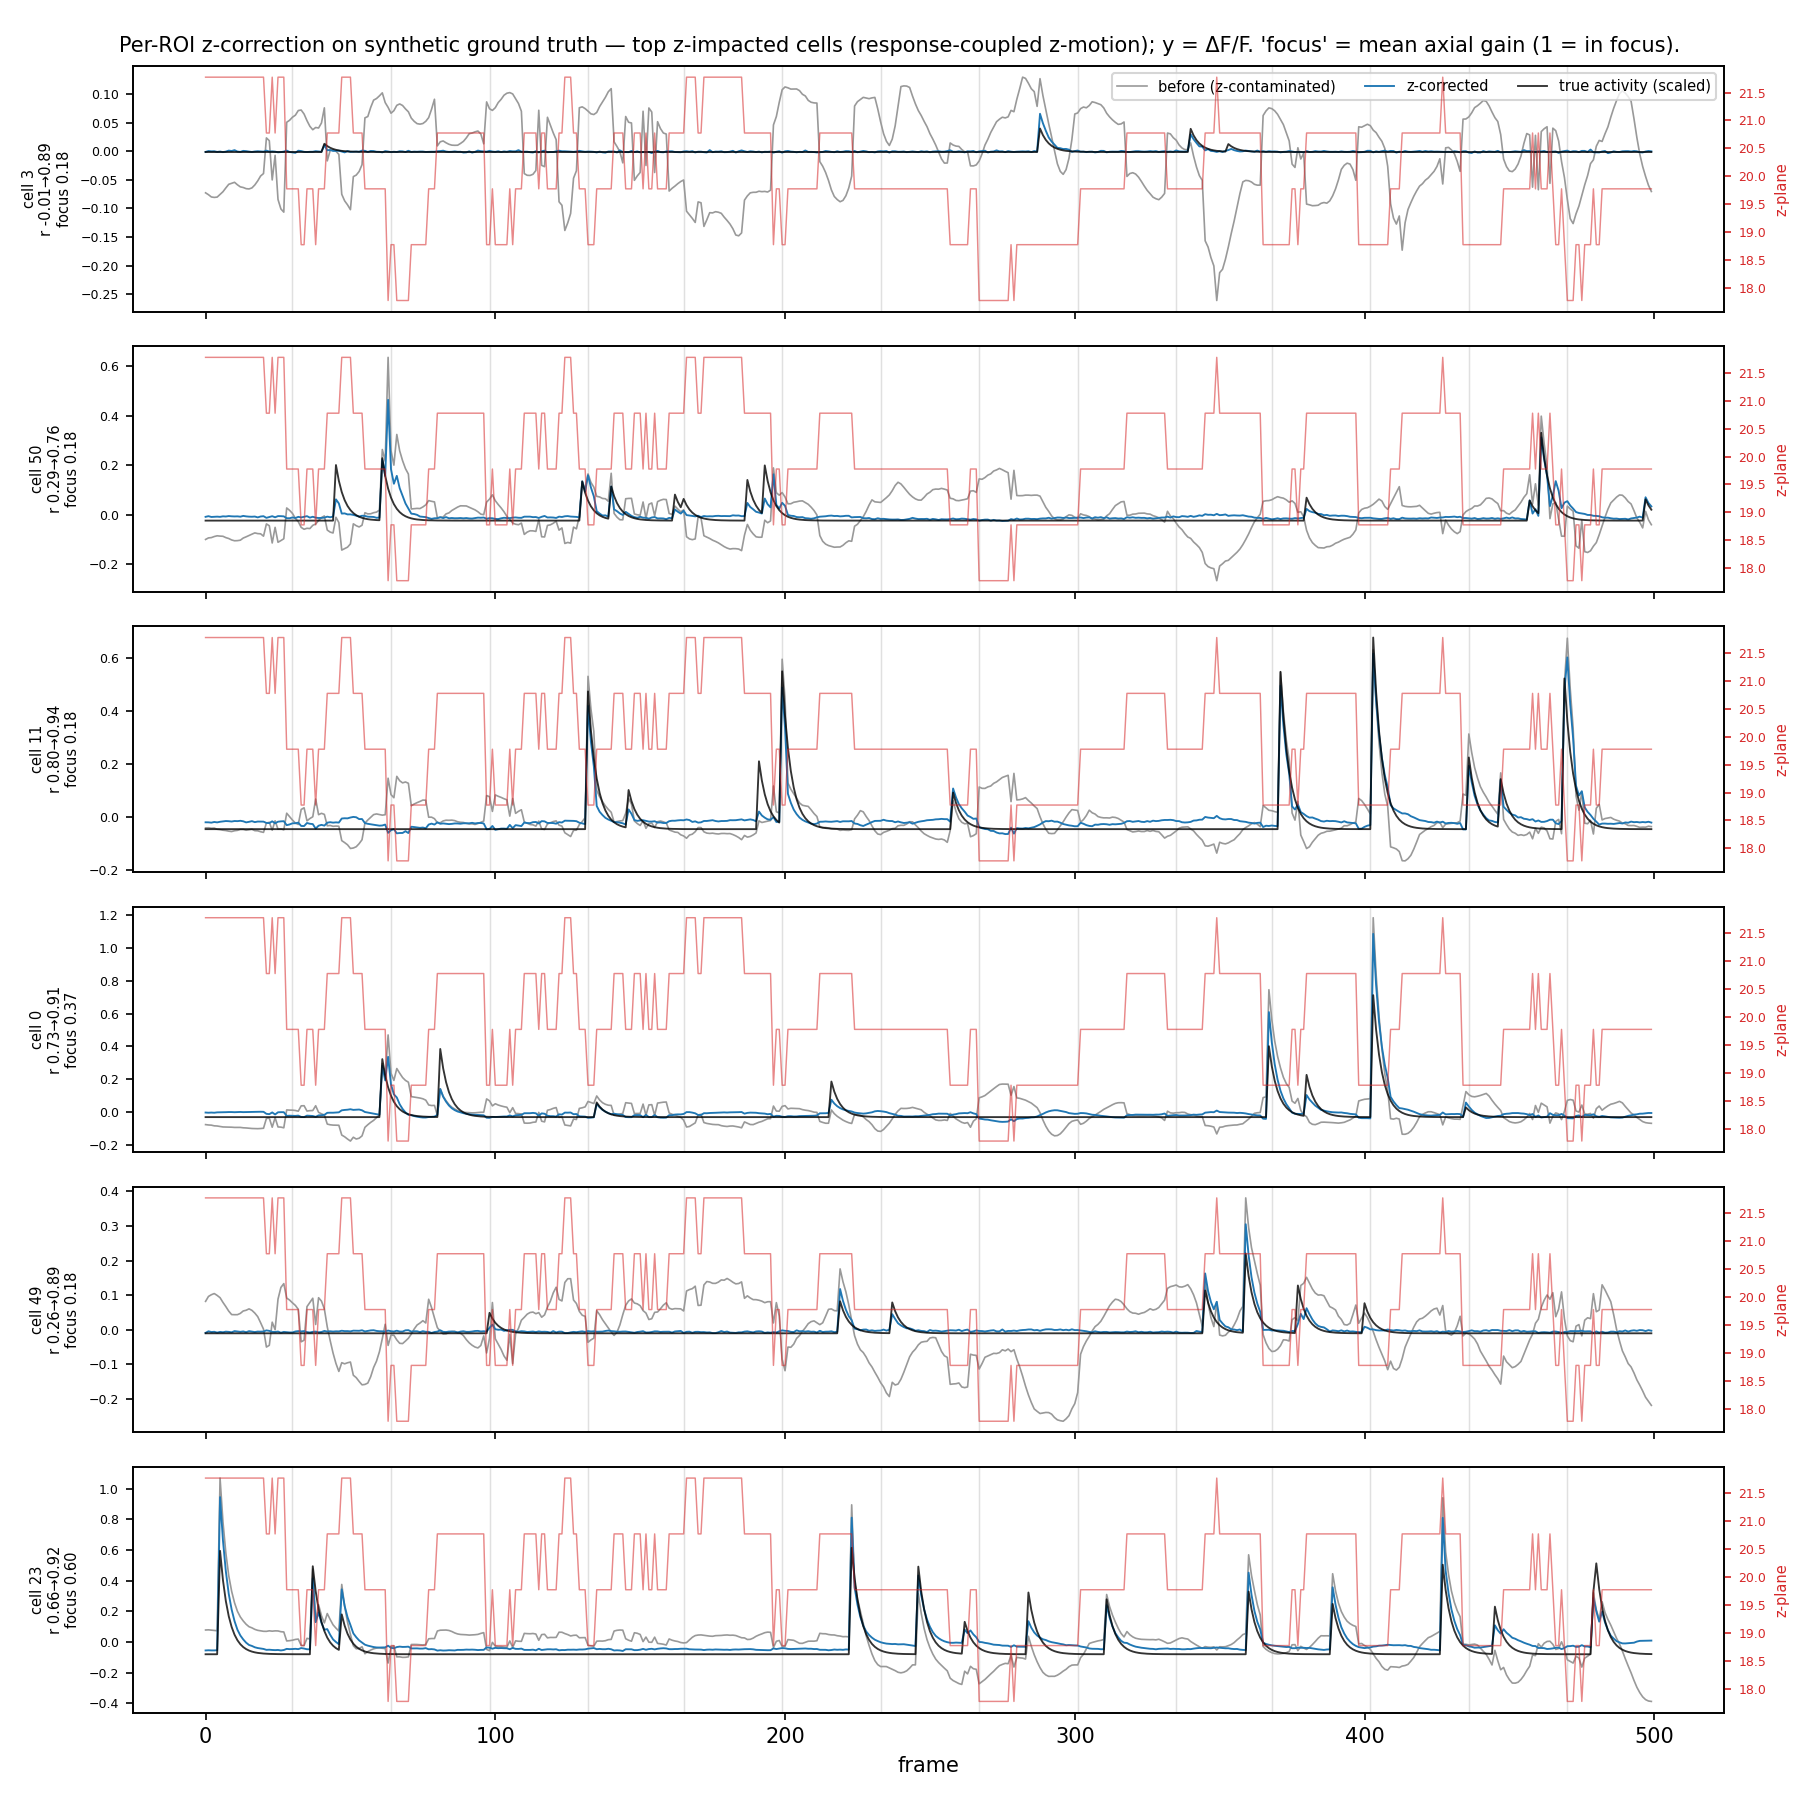
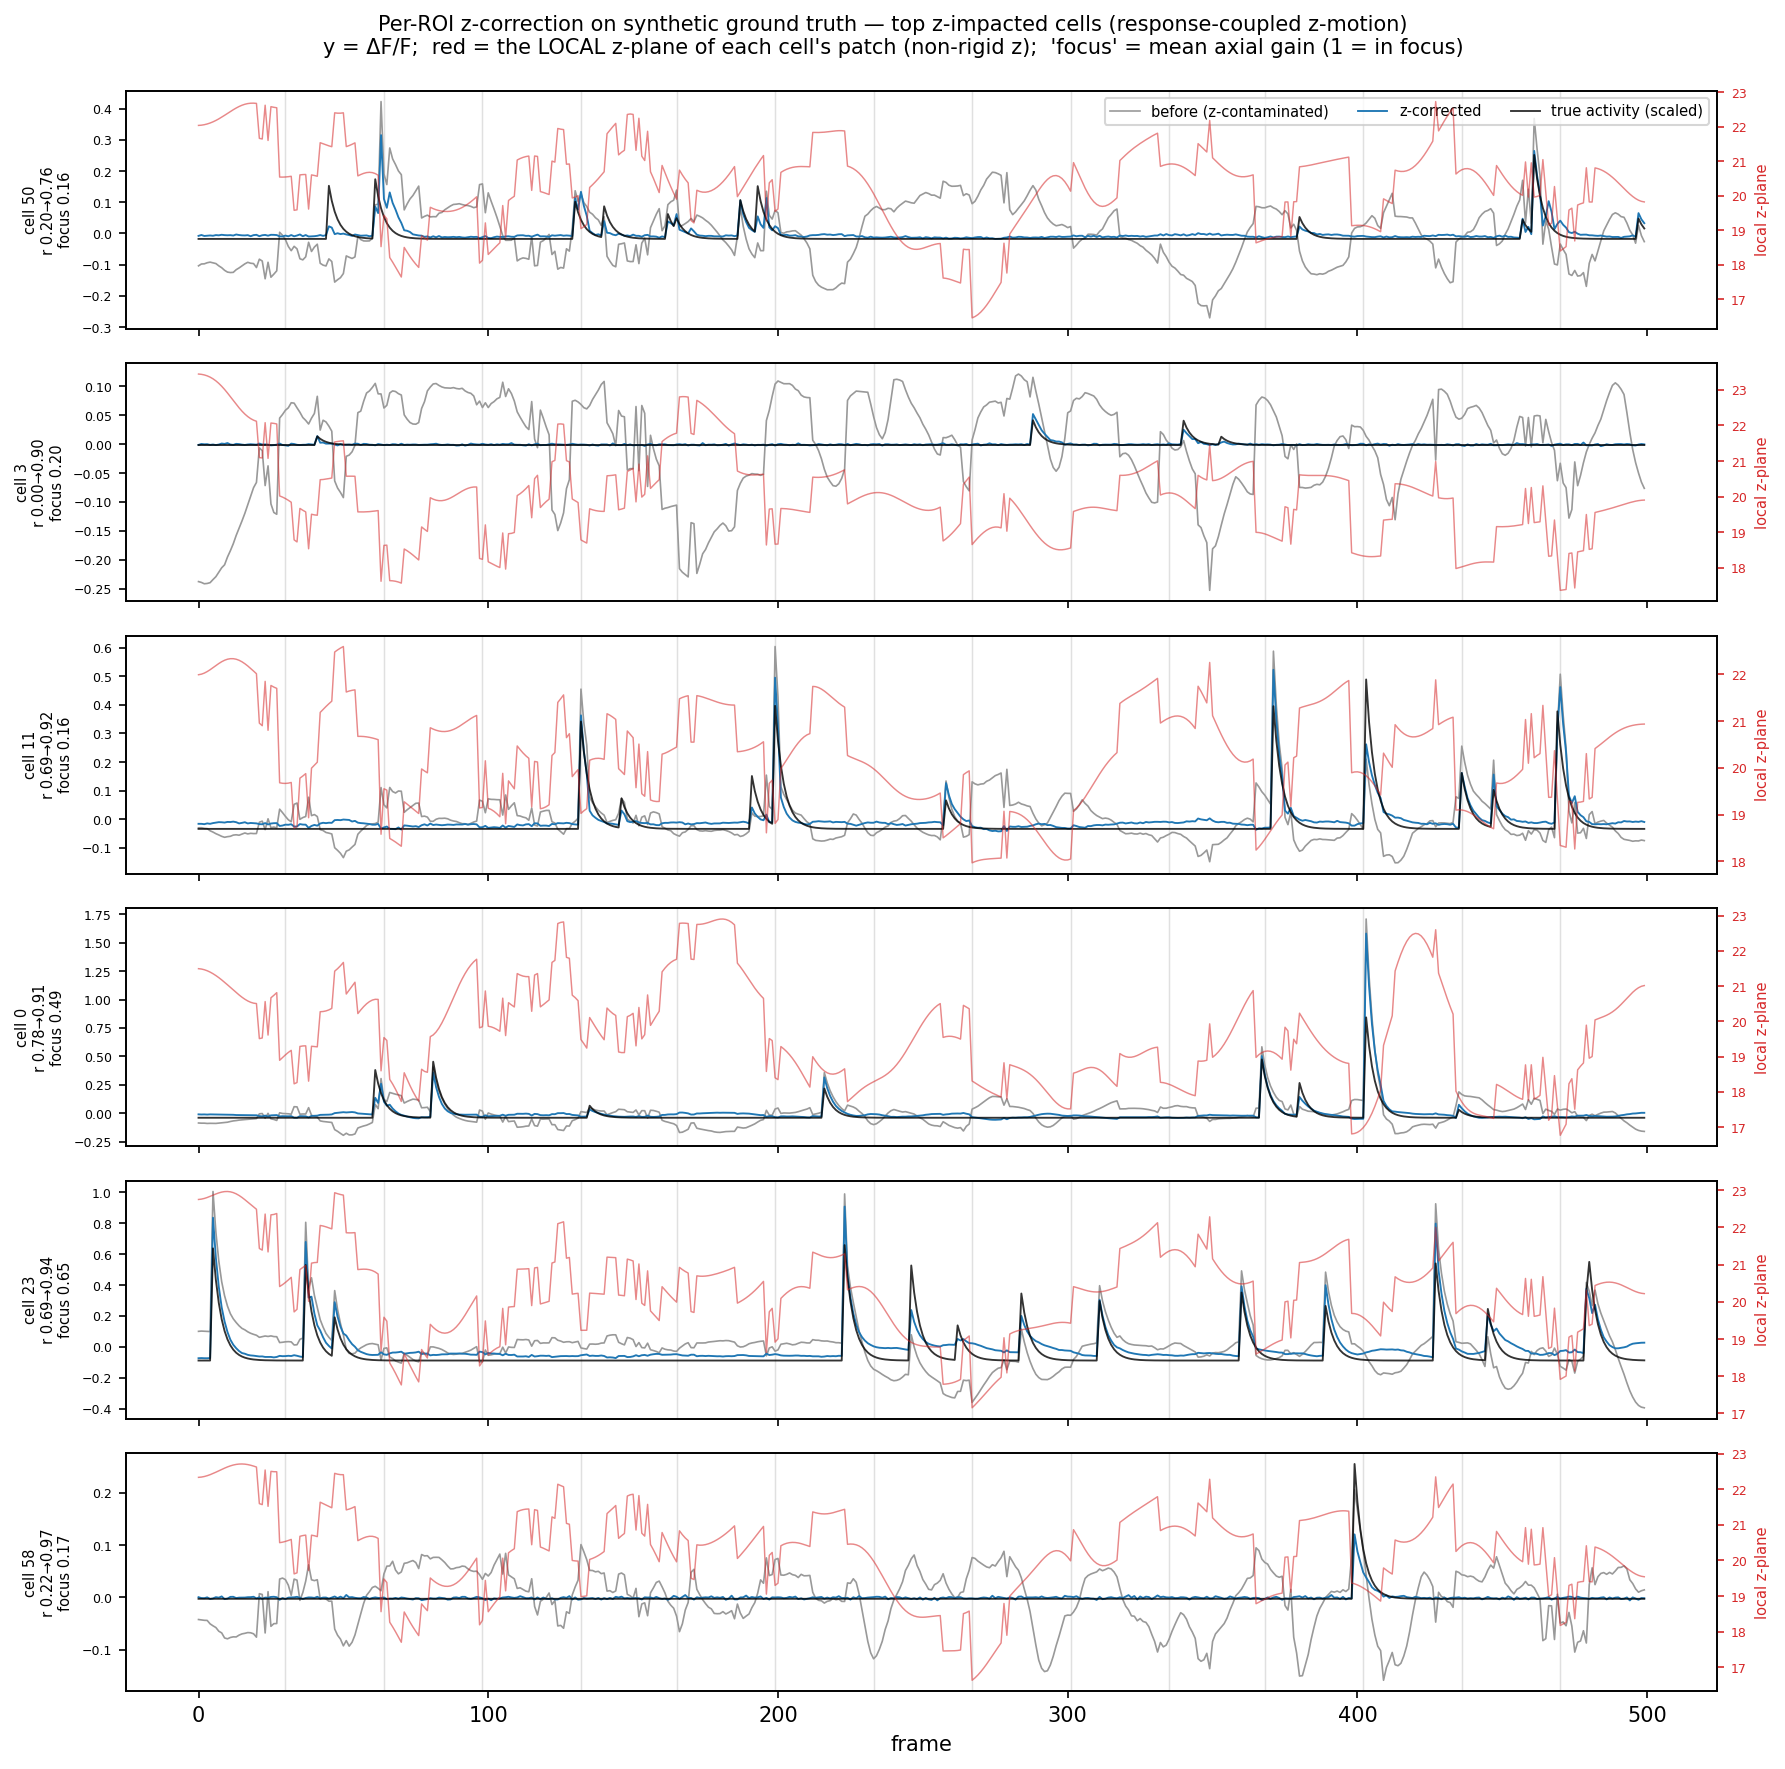
Synthetic demo: non-rigid per-patch z-motion, per-cell local focal plane

Changed region(s): [[0.0, 0.0, 1.0, 0.9949], [0.493, 0.9638, 0.5238, 0.9949]]

diff --git a/validation/synthetic_correction_demo.py b/validation/synthetic_correction_demo.py
@@ -144,11 +144,29 @@ def main():
             n, T, framerate=20, decay_time=0.15, firerate=1.0, seed=args.seed
         )
 
+    # Make the z-motion NON-RIGID: the global (response-coupled) trajectory plus a
+    # mild zero-mean per-patch component, so each region of the FOV sits at its own
+    # focal plane — the regime the F_anat non-rigid correction targets. Each cell
+    # then has a local z-plane that differs from the global one.
+    from tests.benchmarks.synthetic_zstack import make_nonrigid_z_trajectory
+
+    n_py = n_px = 8
+    znr = make_nonrigid_z_trajectory(
+        T,
+        n_py,
+        n_px,
+        amplitude_planes=0.8,
+        temporal_smoothness=8,
+        spatial_smoothness=1.2,
+        seed=args.seed,
+    )
+    zfield_off = zoff[:, None, None] + znr  # (T, n_py, n_px) per-patch z-offset
+
     xy = make_xy_trajectory(T, 1.0, 8, seed=args.seed)
     movie, gt = make_active_functional_movie(
         vol,
         znom,
-        zoff,
+        zfield_off,
         centers,
         trueC,
         xy_offsets=xy,
@@ -161,7 +179,7 @@ def main():
     baseline, _ = make_functional_movie(
         vol,
         znom,
-        zoff,
+        zfield_off,
         xy_offsets=xy,
         deform_amp=0.6,
         deform_wave=True,
@@ -177,7 +195,8 @@ def main():
     dff_before = np.zeros((n, T), np.float32)
     dff_after = np.zeros((n, T), np.float32)
     true_dff = _dff(trueC.astype(np.float32))
-    zpos = gt["z_true"]
+    # Per-cell LOCAL z-plane (the z of the patch containing each cell), not global.
+    z_local = gt["z_local"]  # (n, T)
 
     for i, (zc, cy, cx) in enumerate(centers):
         F = _roi_trace(movie, cy, cx)
@@ -192,16 +211,16 @@ def main():
         dff_before[i], dff_after[i] = db, dc
         r_before[i] = _corr(db, true_dff[i])
         r_after[i] = _corr(dc, true_dff[i])
-        zc_before[i] = abs(_corr(db, zpos))
-        zc_after[i] = abs(_corr(dc, zpos))
+        zc_before[i] = abs(_corr(db, z_local[i]))
+        zc_after[i] = abs(_corr(dc, z_local[i]))
 
-    # Per-cell "focus" = mean axial gain exp(-0.5*((z(t)-z_cell)/sigma_z)^2): how
-    # in-focus the cell is across the recording. Low focus => the true transient is
-    # defocus-attenuated in the movie, so recovery is capped (subtraction can't
-    # restore signal the objective never collected). sigma_z matches the movie.
+    # Per-cell "focus" = mean axial gain exp(-0.5*((z_local(t)-z_cell)/sigma_z)^2):
+    # how in-focus the cell is across the recording (using its LOCAL z-plane). Low
+    # focus => the true transient is defocus-attenuated in the movie, so recovery is
+    # capped (subtraction can't restore signal the objective never collected).
     sigma_z = 2.0
     focus = np.array(
-        [np.mean(np.exp(-0.5 * ((zpos - centers[i, 0]) / sigma_z) ** 2)) for i in range(n)]
+        [np.mean(np.exp(-0.5 * ((z_local[i] - centers[i, 0]) / sigma_z) ** 2)) for i in range(n)]
     )
 
     # z-impact = how contaminated the raw trace is by the z-trajectory. Select the
@@ -244,18 +263,20 @@ def main():
         )
         ax.tick_params(axis="y", labelsize=6)
         axz = ax.twinx()
-        axz.plot(zpos, color="C3", lw=0.7, alpha=0.55)
-        axz.set_ylabel("z-plane", color="C3", fontsize=7)
+        # Local z-plane for THIS cell's patch (non-rigid), not the global z.
+        axz.plot(z_local[i], color="C3", lw=0.7, alpha=0.55)
+        axz.set_ylabel("local z-plane", color="C3", fontsize=7)
         axz.tick_params(axis="y", labelsize=6, colors="C3")
     axes[0].legend(loc="upper right", fontsize=7, ncol=3)
     axes[-1].set_xlabel("frame")
     fig.suptitle(
-        "Per-ROI z-correction on synthetic ground truth — top z-impacted cells "
-        f"({traj_label}); y = ΔF/F. 'focus' = mean axial gain (1 = in focus).",
+        f"Per-ROI z-correction on synthetic ground truth — top z-impacted cells ({traj_label})\n"
+        "y = ΔF/F;  red = the LOCAL z-plane of each cell's patch (non-rigid z);  "
+        "'focus' = mean axial gain (1 = in focus)",
         fontsize=10,
     )
-    fig.tight_layout()
-    fig.savefig(args.out / "roi_zcorr_synthetic.png", dpi=150)
+    fig.tight_layout(rect=[0, 0, 1, 0.99])
+    fig.savefig(args.out / "roi_zcorr_synthetic.png", dpi=150, bbox_inches="tight")
     plt.close(fig)
 
     # ── Figure 2: recovery summary ───────────────────────────────────────────
@@ -285,7 +306,7 @@ def main():
     # Coupling between population activity and z-motion (negative when downward
     # z-motion co-occurs with responses, as in the real protocol).
     pop_activity = true_dff.mean(axis=0)
-    activity_z_coupling = _corr(pop_activity, zpos)
+    activity_z_coupling = _corr(pop_activity, gt["z_true"])
     stats = {
         "n_cells": int(n),
         "trajectory": traj_label,

diff --git a/tests/benchmarks/synthetic_activity.py b/tests/benchmarks/synthetic_activity.py
@@ -155,7 +155,10 @@ def make_active_functional_movie(
     n_z, H, W = volume.shape
 
     # Baseline anatomy under the imposed 3D motion (no activity, no noise yet).
-    movie, _ = make_functional_movie(
+    # ``z_field`` is the per-pixel absolute focal plane (T, H, W) — for rigid
+    # z_offsets it is uniform across the frame; for non-rigid (per-patch) z it
+    # varies spatially, so each cell sees its own local focal plane.
+    movie, z_field = make_functional_movie(
         volume,
         z_nominal,
         z_offsets,
@@ -166,13 +169,17 @@ def make_active_functional_movie(
         seed=seed,
     )
 
-    z_focal = z_nominal + z_offsets  # (T,) rigid focal plane per frame
+    T = movie.shape[0]
     yy, xx = np.mgrid[0:H, 0:W].astype(np.float32)
+    z_local = np.zeros((len(cell_centers), T), np.float32)  # per-cell local focal plane
 
     for c, (zc, yc, xc) in enumerate(cell_centers):
         footprint = np.exp(-0.5 * (((yy - yc) / sigma_xy) ** 2 + ((xx - xc) / sigma_xy) ** 2))
         footprint = footprint.astype(np.float32)
-        axial_gain = np.exp(-0.5 * ((z_focal - zc) / sigma_z) ** 2).astype(np.float32)  # (T,)
+        # Local focal plane at this cell's location (non-rigid aware).
+        lz = z_field[:, int(yc), int(xc)]
+        z_local[c] = lz
+        axial_gain = np.exp(-0.5 * ((lz - zc) / sigma_z) ** 2).astype(np.float32)  # (T,)
         # Outer product (T,) x (H,W) added frame-by-frame, activity-weighted.
         contrib = activity_gain * trueC[c] * axial_gain  # (T,)
         movie += contrib[:, None, None] * footprint[None]
@@ -189,7 +196,12 @@ def make_active_functional_movie(
     ground_truth = {
         "trueC": trueC.astype(np.float32),
         "cell_centers": np.asarray(cell_centers, dtype=int),
-        "z_true": z_focal.astype(np.float32),
+        # Global reference focal plane (mean over the FOV) for backward compatibility.
+        "z_true": z_field.reshape(T, -1).mean(axis=1).astype(np.float32),
+        # Per-cell local focal plane (T per cell) — the z-plane of each cell's patch.
+        "z_local": z_local,
+        # Full per-pixel focal-plane field (T, H, W).
+        "z_field": z_field.astype(np.float32),
     }
     return movie.astype(np.float32), ground_truth
 
